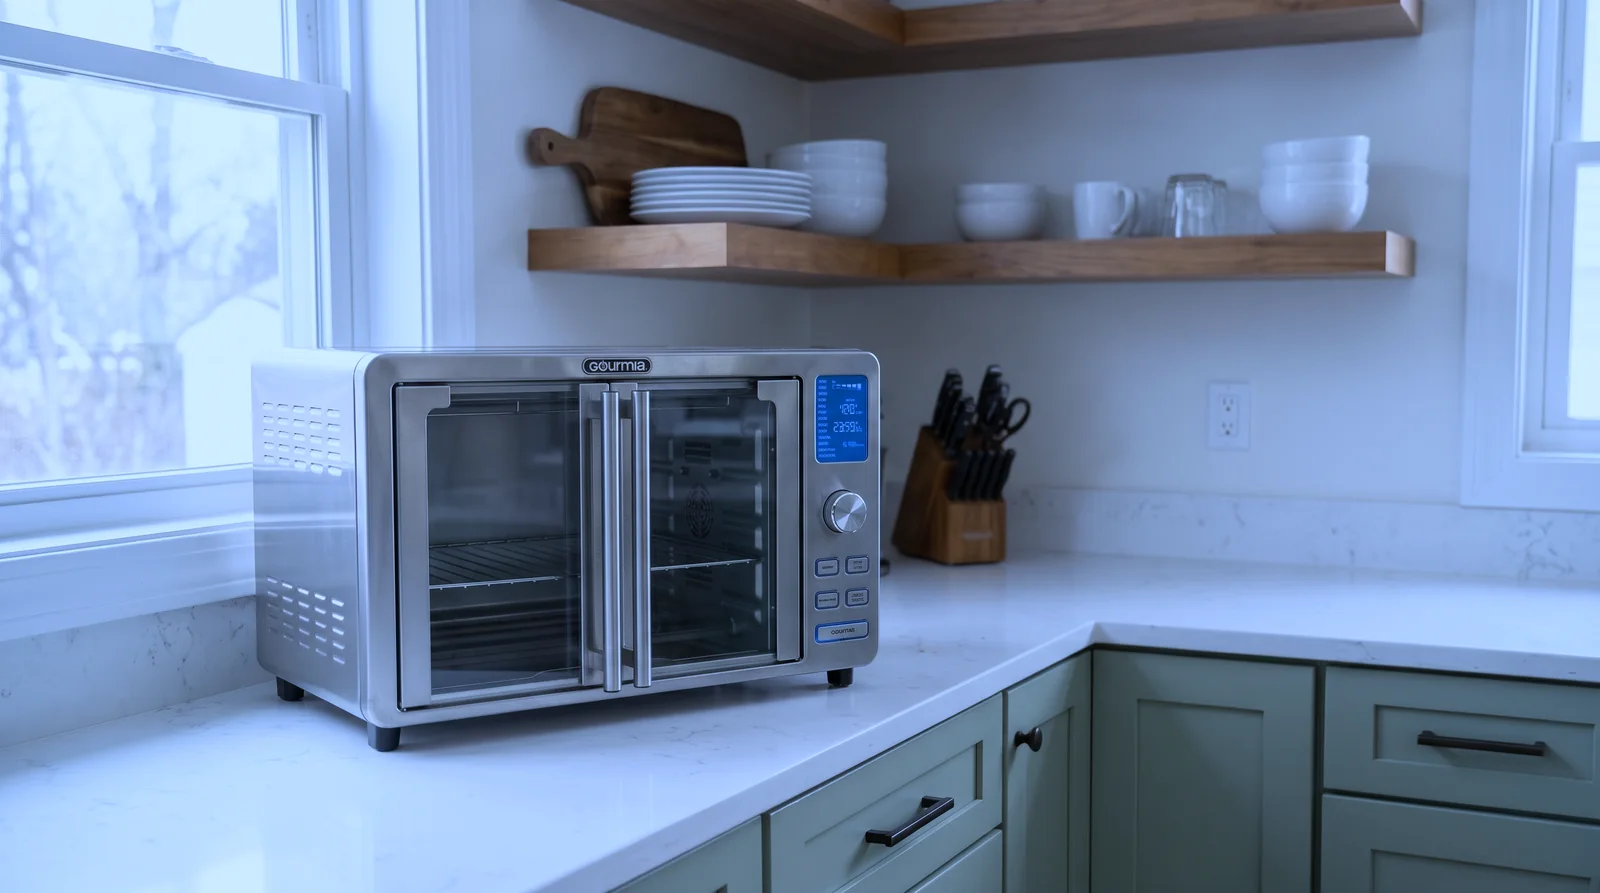
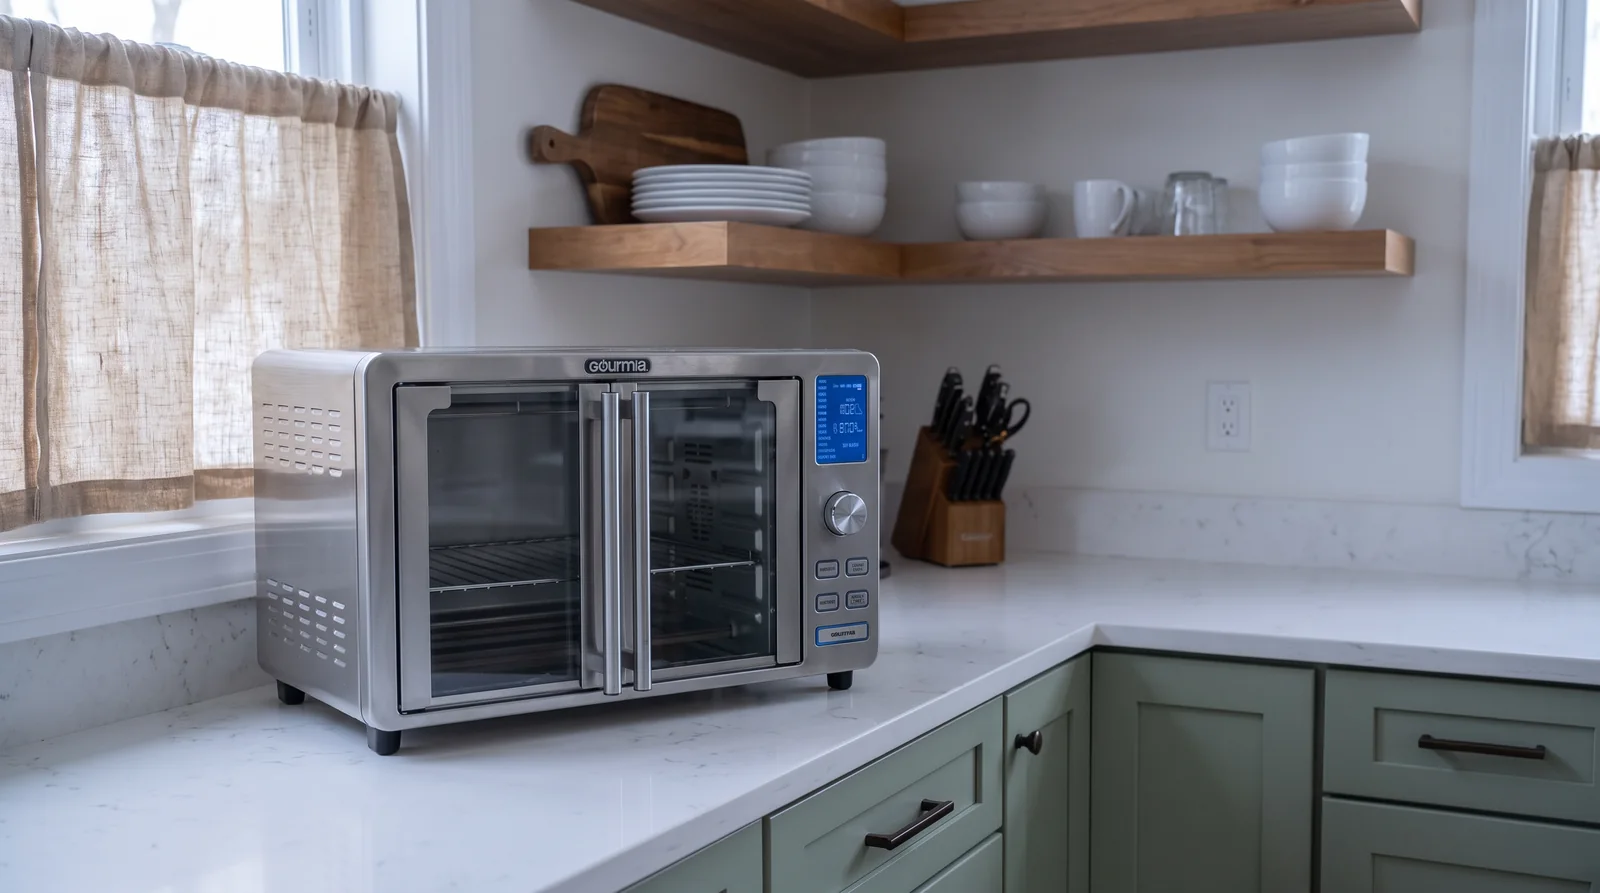
photos: gourmia-air-fryer-recall recheck fixes

diff --git a/blog-pipeline/photos-completed/gourmia-air-fryer-recall.md b/blog-pipeline/photos-completed/gourmia-air-fryer-recall.md
@@ -36,3 +36,6 @@ note: "White quartz and soft sage kitchen with open wood shelves and cafe curtai
 - image_url: https://scan.ismyhometoxic.com/blog-images/gourmiaairf-freedom-v1.webp
 - placement: final image before the closing scan CTA
 - completed: 2026-11-19T16:11:00
+
+## Recheck (Photo Claude) 2026-11-20
+Recheck: Curtains added to the villain windows.
